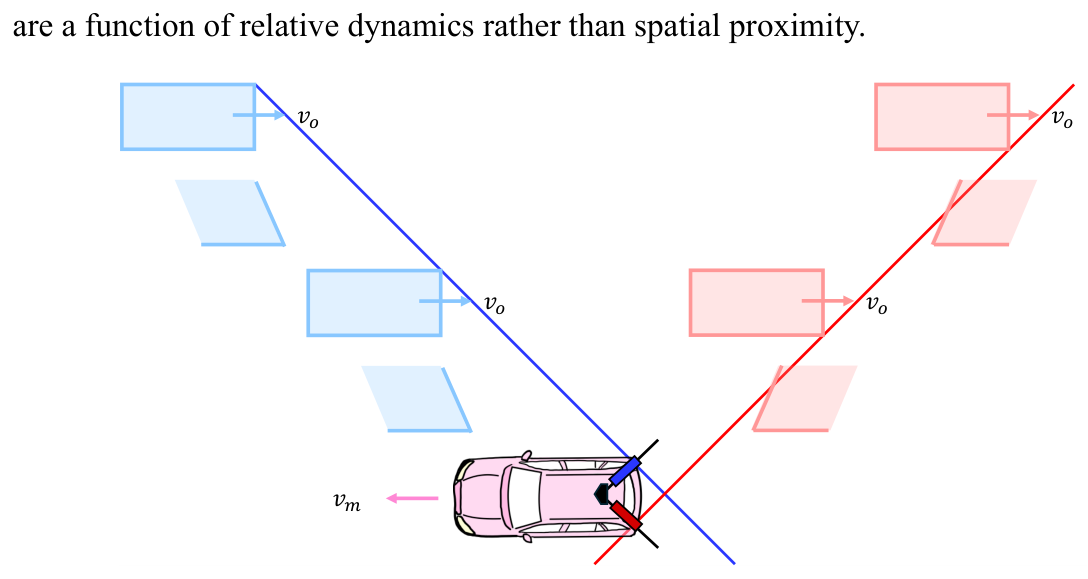
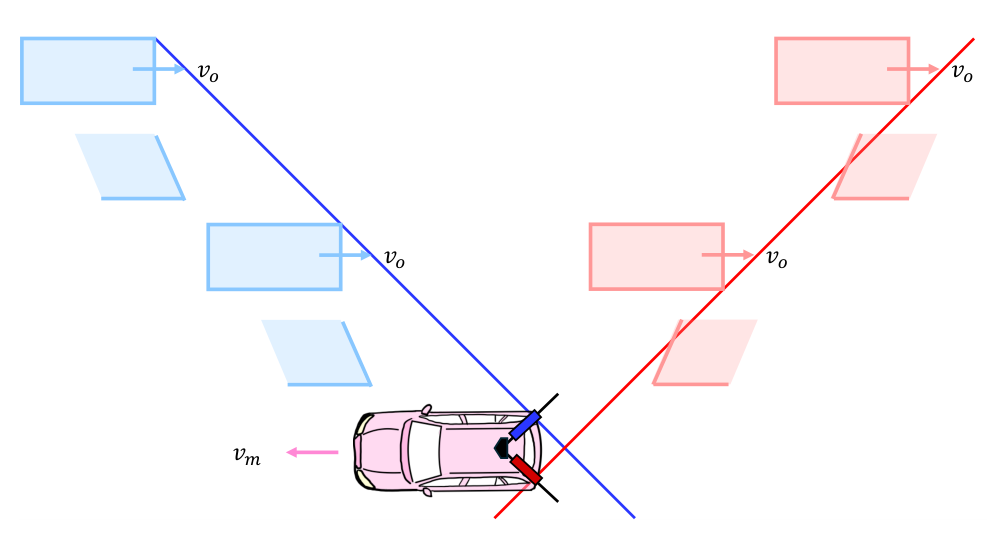
Update scan-distance figure

diff --git a/index.html b/index.html
@@ -175,7 +175,7 @@
                         <figcaption><strong>The side does not matter.</strong> Scanning from the left or right of the mapper gives the same distortion if the relative angle θ is the same.</figcaption>
                     </figure>
                     <figure>
-                        <div class="fig-img"><img src="static/images/scan-distance.png" width="1088" height="578" loading="lazy" alt="Objects at increasing distances from the mapper produce point clouds with the same tilts, only farther apart."></div>
+                        <div class="fig-img"><img src="static/images/scan-distance.png" width="988" height="533" loading="lazy" alt="Objects at increasing distances from the mapper produce point clouds with the same tilts, only farther apart."></div>
                         <figcaption><strong>Distance does not matter.</strong> Moving the object farther away only spreads the left and right clouds apart. The tilts stay the same.</figcaption>
                     </figure>
                 </div>
